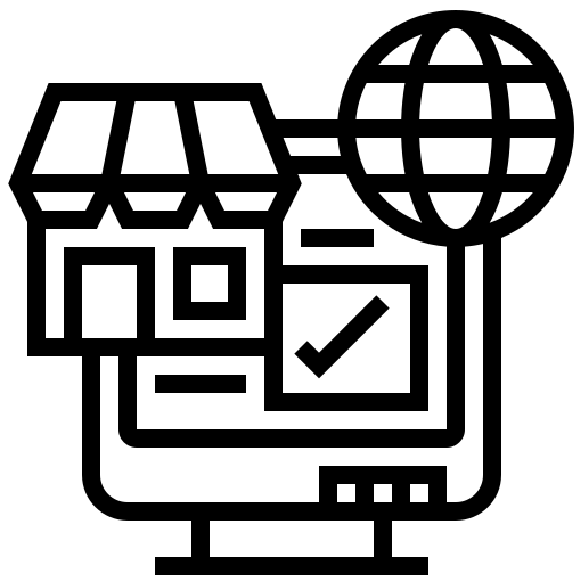
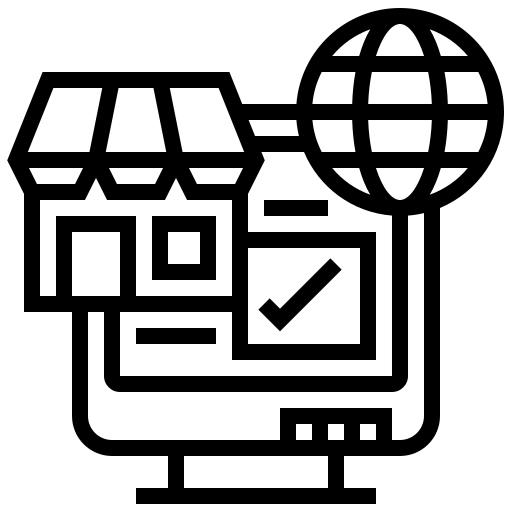
Add service images

diff --git a/src/views/Service/Service.tsx b/src/views/Service/Service.tsx
@@ -13,6 +13,10 @@ import {
 } from "./Service.style";
 import { SERVICECONTENTS } from "constants/StringConstants";
 import { useInView } from "react-intersection-observer";
+import Marketing from "assets/images/marketing.png";
+import Warehouse from "assets/images/warehouse.png";
+import Ecommerce from "assets/images/ecommerce.png";
+import Brand from "assets/images/brand-awareness.png";
 
 const Service = () => {
   const { ref, inView } = useInView({
@@ -38,7 +42,7 @@ const Service = () => {
       >
         <ServiceItemContainer>
           <ServiceIconContainer>
-            <ServiceIcon />
+            <ServiceIcon src={Warehouse} />
           </ServiceIconContainer>
           <ServiceItemTitle>
             {SERVICECONTENTS.DISTRIBUTION_TITLE}
@@ -50,7 +54,7 @@ const Service = () => {
 
         <ServiceItemContainer>
           <ServiceIconContainer>
-            <ServiceIcon />
+            <ServiceIcon src={Ecommerce} />
           </ServiceIconContainer>
           <ServiceItemTitle>{SERVICECONTENTS.ECOMMERCE_TITLE}</ServiceItemTitle>
           <ServiceItemDescription>
@@ -60,7 +64,7 @@ const Service = () => {
 
         <ServiceItemContainer>
           <ServiceIconContainer>
-            <ServiceIcon />
+            <ServiceIcon src={Brand} />
           </ServiceIconContainer>
           <ServiceItemTitle>{SERVICECONTENTS.EXPANSION_TITLE}</ServiceItemTitle>
           <ServiceItemDescription>
@@ -70,7 +74,7 @@ const Service = () => {
 
         <ServiceItemContainer>
           <ServiceIconContainer>
-            <ServiceIcon />
+            <ServiceIcon src={Marketing} />
           </ServiceIconContainer>
           <ServiceItemTitle>{SERVICECONTENTS.MARKETING_TITLE}</ServiceItemTitle>
           <ServiceItemDescription>

diff --git a/src/views/Service/Service.style.ts b/src/views/Service/Service.style.ts
@@ -112,9 +112,16 @@ export const ServiceItemContainer = styled.div`
     }
 `
 
-export const ServiceIconContainer = styled.div``
+export const ServiceIconContainer = styled.div`
+    display: flex;
+    justify-content: center;
+    align-items: center;
+    padding: 30px;
+`
 
-export const ServiceIcon = styled.img``
+export const ServiceIcon = styled.img`
+    width: 50%;
+`
 
 export const ServiceItemTitle = styled.p`
     font-size: 20px;
